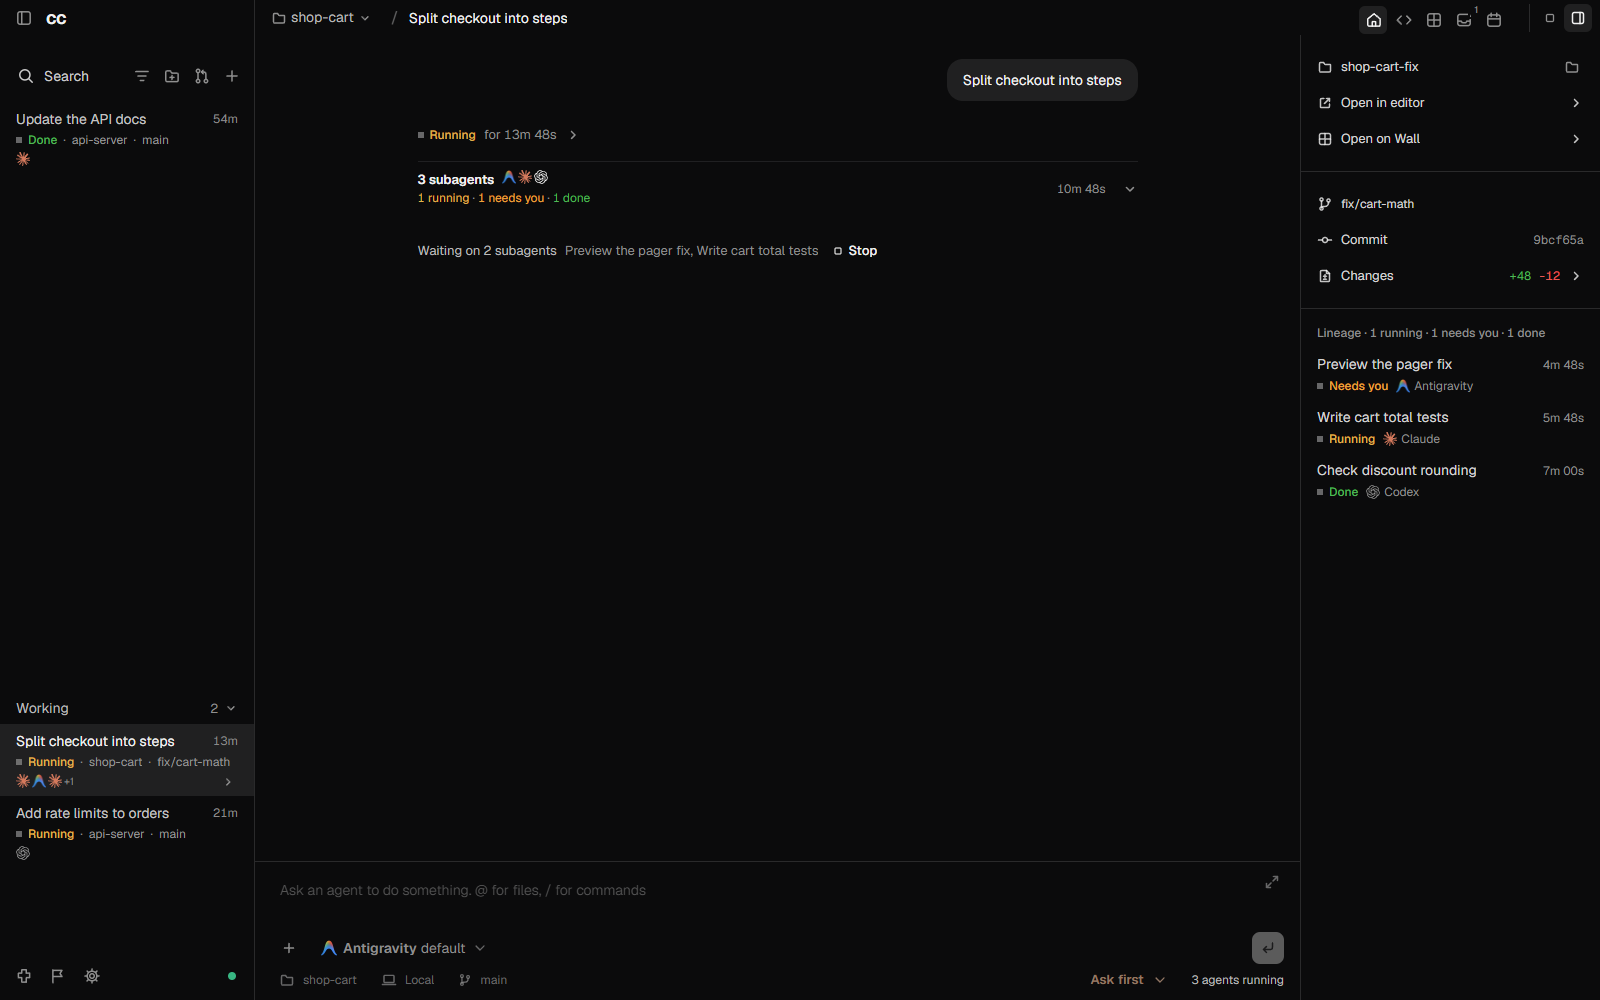
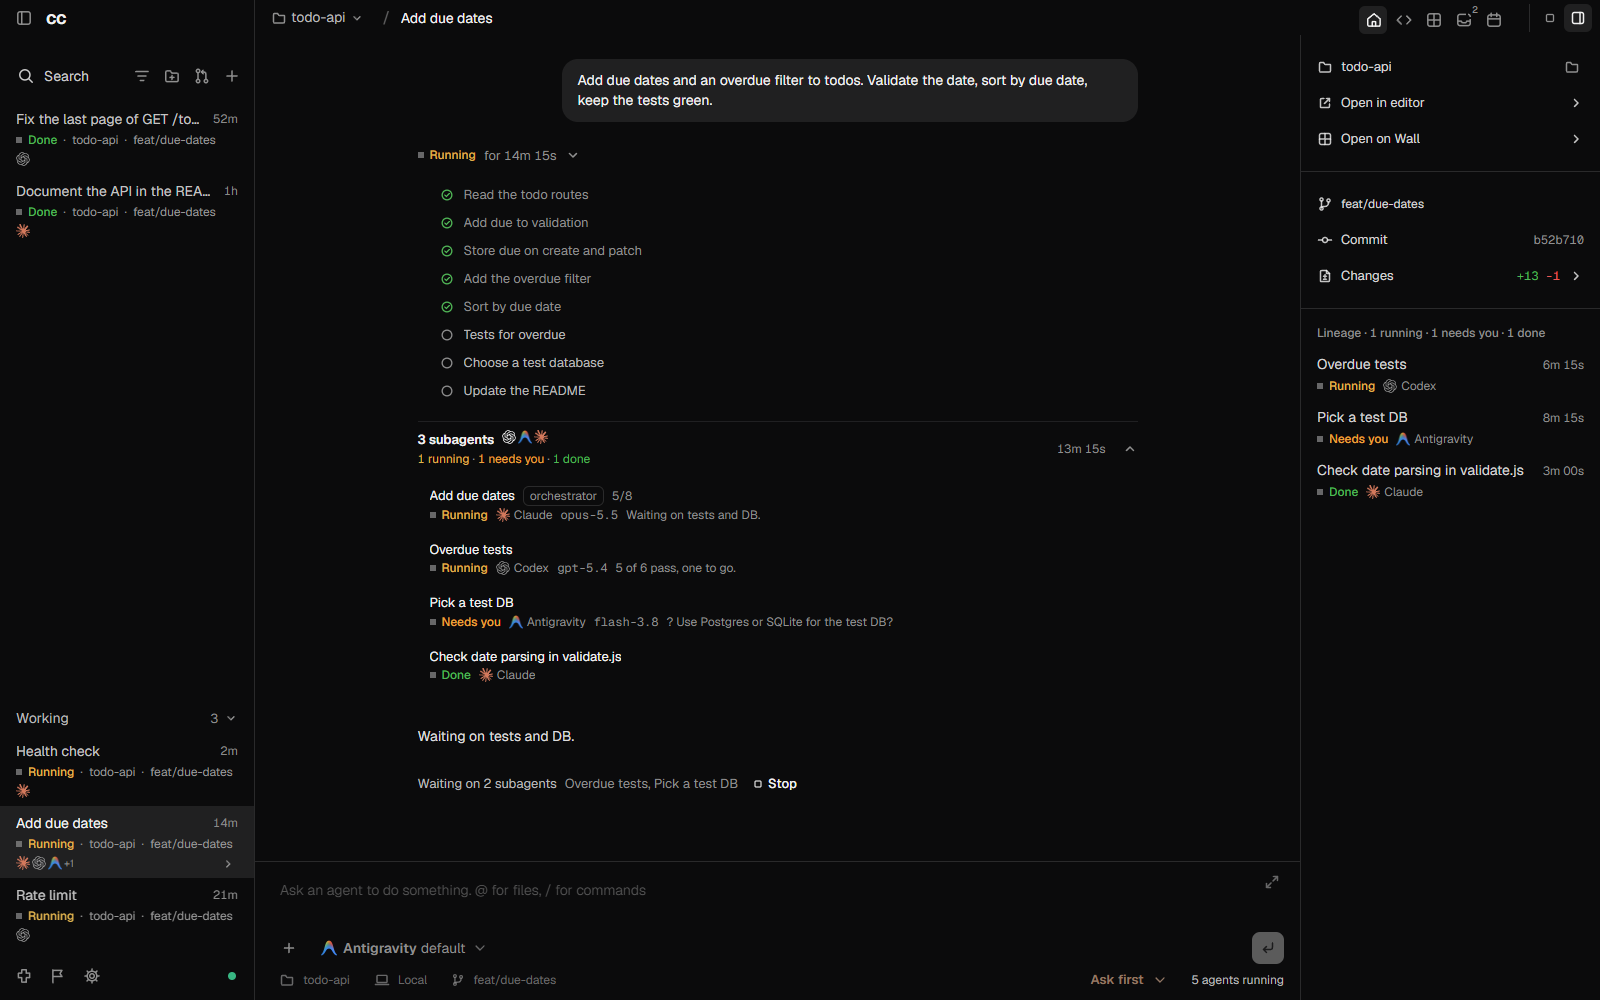
Reshoot the README screenshots on a todo-api demo: Home mid-task with steps and subagents, an IDE diff, four agents working on the Wall, a real question and an approval in Needs you

diff --git a/README.md b/README.md
@@ -34,7 +34,7 @@
 
 </div>
 
-<p align="center"><img src="assets/cc/hero.png" alt="cc Home: a task list, a chat box and one task with three agents, one of them waiting for you"></p>
+<p align="center"><img src="assets/cc/hero.png" alt="cc Home: a task in progress with its steps, three subagents and the chat box"></p>
 
 ## What it is
 
@@ -55,7 +55,7 @@ The window has these screens:
 | **Add-ons** | A list of extensions | The agents cc found and the plugins you installed, each with its permissions. |
 | **Settings** | A settings page | Approvals, notifications, the take-over key and the rest. Automations live here too. |
 
-![Needs you: one agent's question waiting for your answer, three agents working](assets/cc/needs-you.png)
+![Needs you: an agent asks which test database to use, and a browser approval waits for you](assets/cc/needs-you.png)
 
 Built in around the screens:
 
@@ -115,7 +115,7 @@ What to expect:
 
 ## The IDE
 
-![The IDE: file tree, an open file and a terminal](assets/cc/ide.png)
+![The IDE: a side-by-side diff of an agent's change to routes/todos.js, with the changed files listed](assets/cc/ide.png)
 
 - **Editor.** Tabs, Ctrl+S to save, Ctrl+W to close, and a prompt before a dirty tab closes. If the file changed on
   disk since you opened it, you choose Reload from disk or Overwrite. Line endings stay as they were.
@@ -133,7 +133,7 @@ What to expect:
 
 ## The wall
 
-![The wall: an agent waiting for you in the big slot, its diff open beside it](assets/cc/wall.png)
+![The wall: four agents working and one waiting for your answer in the big tile](assets/cc/wall.png)
 
 - **The one that needs you comes to you.** When an agent asks a question or waits for a permission, its tile turns
   orange and moves to the big slot. It waits 3 s if you were just typing in the big tile, so it never steals your
